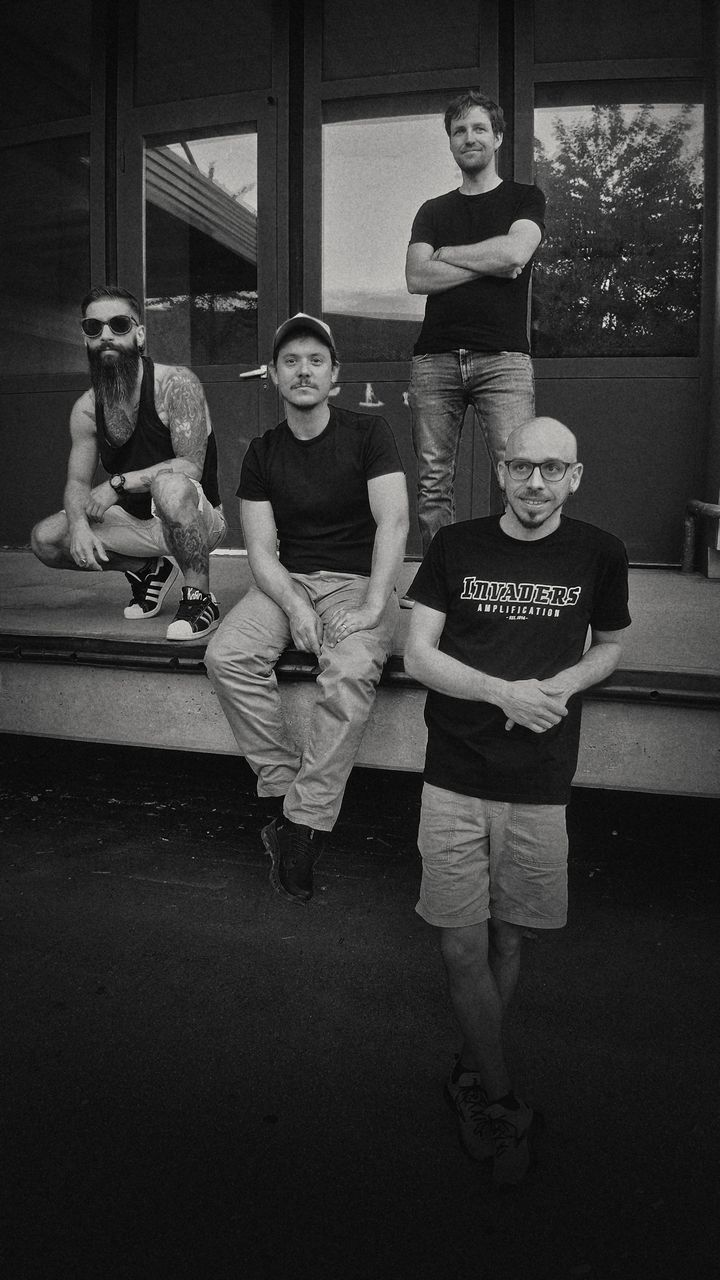
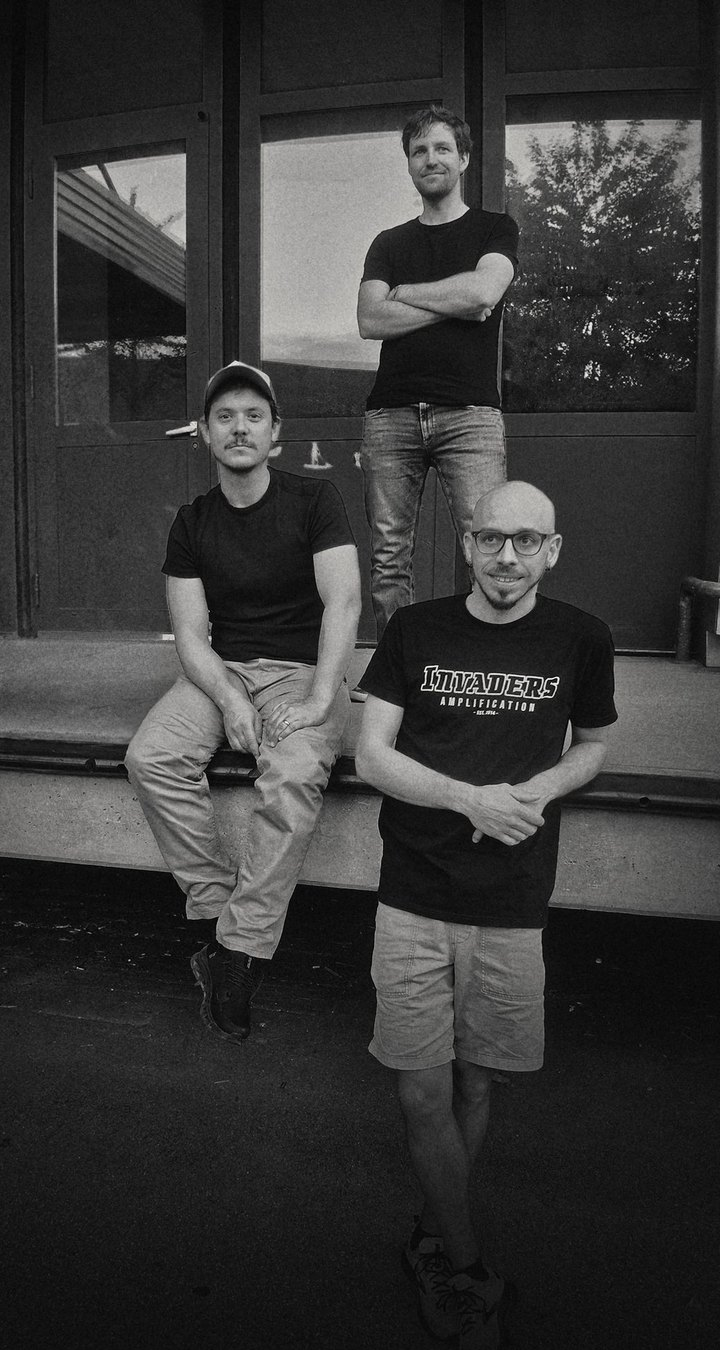
Update the landing page for the trio, re-frame the photo, and add gig calendar links

diff --git a/index.html b/index.html
@@ -4,9 +4,9 @@
 <meta charset="utf-8">
 <meta name="viewport" content="width=device-width,initial-scale=1">
 <title>Ōwashi — Instrumental progressive rock</title>
-<meta name="description" content="Ōwashi — quatuor de rock progressif instrumental basé en Suisse romande. Riffs mélodiques, textures planantes et poussées métal.">
+<meta name="description" content="Ōwashi — trio de rock progressif instrumental basé en Suisse romande. Riffs mélodiques, textures planantes et poussées métal.">
 <meta property="og:title" content="Ōwashi — Instrumental progressive rock">
-<meta property="og:description" content="Quatuor de rock progressif instrumental basé en Suisse romande.">
+<meta property="og:description" content="Trio de rock progressif instrumental basé en Suisse romande.">
 <meta property="og:type" content="website">
 <meta property="og:url" content="https://owashi.band">
 <meta property="og:locale" content="fr_CH">
@@ -17,7 +17,7 @@
 <meta property="og:image:alt" content="Ōwashi">
 <meta name="twitter:card" content="summary_large_image">
 <meta name="twitter:title" content="Ōwashi — Instrumental progressive rock">
-<meta name="twitter:description" content="Quatuor de rock progressif instrumental basé en Suisse romande.">
+<meta name="twitter:description" content="Trio de rock progressif instrumental basé en Suisse romande.">
 <meta name="twitter:image" content="https://owashi.band/assets/og-image.jpg">
 <meta name="theme-color" content="#0b0b0c">
 <link rel="icon" href="assets/favicon.svg" type="image/svg+xml">
@@ -203,19 +203,27 @@
   /* ---- Live ---- */
   .gigs{list-style:none;border-top:1px solid var(--line-2)}
   .gigs li{
-    display:grid;grid-template-columns:minmax(0,3fr) minmax(0,6fr) minmax(0,3fr);
+    display:grid;grid-template-columns:minmax(0,3fr) minmax(0,5fr) minmax(0,2.5fr) auto;
     gap:10px 24px;align-items:baseline;
     padding:22px 0;border-bottom:1px solid var(--line);
   }
   .gigs time{font-size:clamp(20px,2.2vw,30px);font-weight:400;letter-spacing:-.01em;font-variant-numeric:tabular-nums;white-space:nowrap}
   .gigs .venue{font-size:clamp(18px,1.8vw,24px);color:var(--fg)}
   .gigs .city{font-size:12px;letter-spacing:.2em;text-transform:uppercase;color:var(--fg-2);text-align:right;font-weight:400}
+  .gigs .cal{
+    font-size:10.5px;letter-spacing:.18em;text-transform:uppercase;font-weight:400;
+    color:var(--fg-3);border:1px solid var(--line-2);border-radius:999px;
+    padding:4px 11px;white-space:nowrap;transition:color .2s,border-color .2s,background .2s;
+  }
+  .gigs .cal:hover,.gigs .cal:focus-visible{color:var(--bg);background:var(--fg);border-color:var(--fg);outline:none}
   .gigs li.past{opacity:.38}
-  @media(max-width:560px){
+  .gigs li.past .cal{display:none}
+  @media(max-width:640px){
     .gigs li{grid-template-columns:1fr auto}
     .gigs time{grid-row:1;grid-column:1}
     .gigs .city{grid-row:1;grid-column:2}
-    .gigs .venue{grid-row:2;grid-column:1/-1;margin-top:-4px}
+    .gigs .venue{grid-row:2;grid-column:1;margin-top:-4px}
+    .gigs .cal{grid-row:2;grid-column:2;justify-self:end;align-self:center;margin-top:-4px}
   }
 
   /* ---- Listen ---- */
@@ -244,7 +252,7 @@
   .band .aside strong{font-weight:400;color:var(--fg)}
   .band .grid{grid-template-columns:minmax(0,6fr) minmax(0,5fr);align-items:center}
   /* band photo: edges dissolve into the section, the ground falls away like the page's bottom fade */
-  .band .photo{position:relative;justify-self:end;width:min(100%,460px);aspect-ratio:1200/2133}
+  .band .photo{position:relative;justify-self:end;width:min(100%,460px);aspect-ratio:1040/1950}
   .band .photo img{
     width:100%;height:100%;object-fit:cover;
     -webkit-mask-image:linear-gradient(90deg,transparent,#000 11%,#000 89%,transparent),linear-gradient(180deg,transparent,#000 9%,#000 74%,transparent);
@@ -253,8 +261,10 @@
     mask-composite:intersect;
   }
   /* easter egg: a name lets that member's spirit drift up out of the photo */
-  .band .member{cursor:default;transition:text-shadow .8s}
-  .band .member.haunt{text-shadow:0 0 16px rgba(226,229,236,.6)}
+  .band .member{cursor:pointer;border-bottom:1px dotted var(--line-2);transition:text-shadow .8s,border-color .25s}
+  .band .member:hover,.band .member:focus-visible{border-color:var(--fg-2)}
+  .band .member:focus-visible{outline:1px solid var(--fg-2);outline-offset:3px;border-radius:2px}
+  .band .member.haunt{text-shadow:0 0 16px rgba(226,229,236,.6);border-color:var(--fg)}
   .spirit,.husk{
     position:absolute;inset:0;pointer-events:none;opacity:0;
     /* the member's silhouette, cut by the same side fade as the photo (not the top: spirits leave through it) */
@@ -344,7 +354,7 @@
   </section>
   </div>
 
-  <section id="about">
+  <section id="about" aria-label="About">
     <div class="wrap block">
       <div class="grid">
         <p class="lede" data-i18n="about.lede">Un <strong>rock progressif instrumental</strong> immersif, entre riffs mélodiques, textures planantes et poussées métal.</p>
@@ -355,7 +365,7 @@
     </div>
   </section>
 
-  <section id="live">
+  <section id="live" aria-label="Live dates">
     <div class="wrap block">
       <ul class="gigs">
         <li><time datetime="2026-11-28">28 nov. 2026</time><span class="venue">Pression et Distortions</span><span class="city">Renens</span></li>
@@ -364,7 +374,7 @@
     </div>
   </section>
 
-  <section id="listen">
+  <section id="listen" aria-label="Listen">
     <div class="wrap block">
       <div class="player">
         <iframe
@@ -377,20 +387,20 @@
     </div>
   </section>
 
-  <section id="band" class="band">
+  <section id="band" class="band" aria-label="The band">
     <div class="wrap block">
       <div class="grid">
-        <p class="aside" data-i18n="band.text">Le groupe s'est construit autour des compositions originales de <strong>Cyril</strong>, aujourd'hui rejointes par celles de <strong>Fab</strong>. Tous deux se partagent guitares lead et rythmique ; <strong>Olivier</strong> (basse) et <strong>Romain</strong> (batterie) enrichissent chaque morceau de leurs influences et sensibilités.</p>
+        <p class="aside" data-i18n="band.text">Le groupe s'est construit autour des compositions originales de <strong>Cyril</strong> (guitare) ; <strong>Olivier</strong> (basse) et <strong>Romain</strong> (batterie) enrichissent chaque morceau de leurs influences et sensibilités.</p>
         <figure class="photo">
-          <img src="assets/band-2026.jpg" srcset="assets/band-2026-720.jpg 720w, assets/band-2026.jpg 1200w" sizes="(max-width: 760px) 100vw, 460px"
-            width="1200" height="2133" loading="lazy" decoding="async"
-            alt="Ōwashi : Cyril, Fab, Olivier et Romain devant une façade vitrée" data-i18n-alt="band.alt">
+          <img src="assets/band-2026.jpg" srcset="assets/band-2026-720.jpg 720w, assets/band-2026.jpg 1040w" sizes="(max-width: 760px) 100vw, 460px"
+            width="1040" height="1950" loading="lazy" decoding="async"
+            alt="Ōwashi : Cyril, Olivier et Romain devant une façade vitrée" data-i18n-alt="band.alt">
         </figure>
       </div>
     </div>
   </section>
 
-  <section id="contact" class="contact">
+  <section id="contact" class="contact" aria-label="Contact">
     <div class="wrap block">
       <div class="links">
         <a href="https://soundcloud.com/owashi-band-official" target="_blank" rel="noopener">
@@ -424,8 +434,9 @@
       'scroll': 'Défiler',
       'about.lede': 'Un <strong>rock progressif instrumental</strong> immersif, entre riffs mélodiques, textures planantes et poussées métal.',
       'about.text': 'Basé en Suisse romande, <span class="om">Ōwashi</span> construit sur scène un voyage sonore intense, clair et dynamique. Des compositions originales qui prennent leur temps, montent, respirent et frappent.',
-      'band.alt': 'Ōwashi : Cyril, Fab, Olivier et Romain devant une façade vitrée',
-      'band.text': "Le groupe s'est construit autour des compositions originales de <strong>Cyril</strong>, aujourd'hui rejointes par celles de <strong>Fab</strong>. Tous deux se partagent guitares lead et rythmique ; <strong>Olivier</strong> (basse) et <strong>Romain</strong> (batterie) enrichissent chaque morceau de leurs influences et sensibilités.",
+      'band.alt': 'Ōwashi : Cyril, Olivier et Romain devant une façade vitrée',
+      'band.text': "Le groupe s'est construit autour des compositions originales de <strong>Cyril</strong> (guitare) ; <strong>Olivier</strong> (basse) et <strong>Romain</strong> (batterie) enrichissent chaque morceau de leurs influences et sensibilités.",
+      'live.cal': '+ Agenda',
       'contact.text': 'Concerts, presse, projets :',
       'footer.loc': 'Suisse romande'
     },
@@ -434,8 +445,9 @@
       'scroll': 'Scroll',
       'about.lede': 'Immersive <strong>instrumental progressive rock</strong> — melodic riffs, sweeping textures and metallic surges.',
       'about.text': 'Based in French-speaking Switzerland, <span class="om">Ōwashi</span> builds an intense, clear and dynamic sonic journey on stage. Original compositions that take their time, climb, breathe and hit.',
-      'band.alt': 'Ōwashi: Cyril, Fab, Olivier and Romain in front of a glass façade',
-      'band.text': 'The band came together around <strong>Cyril</strong>\'s original compositions, now joined by <strong>Fab</strong>\'s. The two share lead and rhythm guitar, while <strong>Olivier</strong> (bass) and <strong>Romain</strong> (drums) bring their own influences and sensibilities to every track.',
+      'band.alt': 'Ōwashi: Cyril, Olivier and Romain in front of a glass façade',
+      'band.text': 'The band came together around the original compositions of <strong>Cyril</strong> (guitar); <strong>Olivier</strong> (bass) and <strong>Romain</strong> (drums) bring their own influences and sensibilities to every track.',
+      'live.cal': '+ Calendar',
       'contact.text': 'Shows, press, projects:',
       'footer.loc': 'Switzerland'
     },
@@ -444,13 +456,32 @@
       'scroll': 'スクロール',
       'about.lede': 'メロディアスなリフ、広がりのあるテクスチャ、メタル的な勢いが交差する、没入型の<strong>インストゥルメンタル・プログレッシブ・ロック</strong>。',
       'about.text': 'スイス・ロマンド地方を拠点とする<span class="om">Ōwashi</span>は、ライブで強烈かつ透明感のあるダイナミックな音の旅を紡ぎ出す。時間をかけて高まり、呼吸し、そして打ちつけるオリジナル曲。',
-      'band.alt': 'Ōwashi：Cyril、Fab、Olivier、Romain',
-      'band.text': 'バンドは<strong>Cyril</strong>のオリジナル曲を軸に結成され、現在は<strong>Fab</strong>の楽曲も加わっている。二人はリードとリズムの両ギターを分け合い、<strong>Olivier</strong>（ベース）と<strong>Romain</strong>（ドラム）がそれぞれの感性と影響を各曲に注ぎ込んでいる。',
+      'band.alt': 'Ōwashi：Cyril、Olivier、Romain',
+      'band.text': 'バンドは<strong>Cyril</strong>（ギター）のオリジナル曲を軸に結成され、<strong>Olivier</strong>（ベース）と<strong>Romain</strong>（ドラム）がそれぞれの感性と影響を各曲に注ぎ込んでいる。',
+      'live.cal': '+ カレンダー',
       'contact.text': 'ライブ、取材、プロジェクトのご相談：',
       'footer.loc': 'スイス'
     }
   };
   const SUPPORTED = ['fr', 'en', 'ja'];
+
+  function gigIcs(iso, venue, city){
+    const d = new Date(iso + 'T12:00:00Z');
+    const next = new Date(d.getTime() + 86400000);
+    const ymd = dt => dt.toISOString().slice(0, 10).replace(/-/g, '');
+    const esc = s => s.replace(/([\\;,])/g, '\\$1');
+    return 'data:text/calendar;charset=utf-8,' + encodeURIComponent([
+      'BEGIN:VCALENDAR', 'VERSION:2.0', 'PRODID:-//Owashi//owashi.band//EN',
+      'BEGIN:VEVENT',
+      `UID:${iso}-${venue.toLowerCase().replace(/[^a-z0-9]+/g, '-')}@owashi.band`,
+      `DTSTART;VALUE=DATE:${ymd(d)}`,
+      `DTEND;VALUE=DATE:${ymd(next)}`,
+      `SUMMARY:${esc(`Ōwashi — ${venue}`)}`,
+      `LOCATION:${esc(`${venue}, ${city}`)}`,
+      'URL:https://owashi.band',
+      'END:VEVENT', 'END:VCALENDAR'
+    ].join('\r\n'));
+  }
 
   function applyLang(lang){
     document.documentElement.lang = lang;
@@ -468,7 +499,21 @@
     document.querySelectorAll('.gigs time[datetime]').forEach(el => {
       const d = new Date(el.dateTime + 'T12:00:00');
       el.textContent = fmt.format(d);
-      el.closest('li').classList.toggle('past', d < today);
+      const li = el.closest('li');
+      const isPast = d < today;
+      li.classList.toggle('past', isPast);
+      let cal = li.querySelector('.cal');
+      if (!cal) {
+        const venue = li.querySelector('.venue')?.textContent.trim() || '';
+        const city = li.querySelector('.city')?.textContent.trim() || '';
+        cal = document.createElement('a');
+        cal.className = 'cal';
+        cal.href = gigIcs(el.dateTime, venue, city);
+        cal.download = `owashi-${el.dateTime}.ics`;
+        li.append(cal);
+      }
+      cal.textContent = I18N[lang]['live.cal'];
+      cal.setAttribute('aria-label', `${I18N[lang]['live.cal']} (${el.textContent})`);
     });
     document.querySelectorAll('.lang button').forEach(b => {
       const on = b.dataset.lang === lang;
@@ -497,14 +542,14 @@
   const img = photo && photo.querySelector('img');
   if (!text || !img) return;
   // each member's centre in the frame (from the masks in assets/ghost-*.png)
-  const MEMBERS = { fab: '13.5% 33.4%', romain: '43.1% 46.8%', olivier: '65.3% 24.1%', cyril: '70.3% 56.6%' };
+  const MEMBERS = { romain: '34.5% 51.4%', olivier: '60.0% 26.4%', cyril: '65.8% 62.0%' };
   const reduce = matchMedia('(prefers-reduced-motion: reduce)').matches;
   const layers = {}, running = new Set();
 
   function tag(){
     text.querySelectorAll('strong').forEach(s => {
       const id = s.textContent.trim().toLowerCase();
-      if (MEMBERS[id]) { s.classList.add('member'); s.dataset.member = id; s.tabIndex = 0; }
+      if (MEMBERS[id]) { s.classList.add('member'); s.dataset.member = id; s.setAttribute('role', 'button'); s.tabIndex = 0; }
     });
   }
   new MutationObserver(tag).observe(text, { childList: true });   // the language switch rewrites the paragraph
@@ -520,7 +565,7 @@
     return el;
   }
   // hit map: which member is under each point of the photo, read from the same masks
-  const ids = Object.keys(MEMBERS), MW = 288, MH = 512, hit = new Uint8Array(MW * MH);
+  const ids = Object.keys(MEMBERS), MW = 288, MH = 540, hit = new Uint8Array(MW * MH);
   function buildHitMap(){
     const c = document.createElement('canvas'); c.width = MW; c.height = MH;
     const ctx = c.getContext('2d', { willReadFrequently: true });
@@ -566,6 +611,11 @@
   text.addEventListener('pointerover', e => { const m = pick(e); if (m && !m.contains(e.relatedTarget)) haunt(m.dataset.member); });
   text.addEventListener('focusin', e => { const m = pick(e); if (m) haunt(m.dataset.member); });
   text.addEventListener('click', e => { const m = pick(e); if (m) haunt(m.dataset.member); });
+  text.addEventListener('keydown', e => {
+    if (e.key !== 'Enter' && e.key !== ' ') return;
+    const m = pick(e);
+    if (m) { e.preventDefault(); haunt(m.dataset.member); }
+  });
 
   // in the photo: the mouse entering someone, or a tap on them
   function memberAt(e){
@@ -579,9 +629,10 @@
   photo.addEventListener('pointermove', e => {
     if (e.pointerType === 'touch') return;   // touch scrolls past the photo; a tap is handled by click
     const id = memberAt(e);
+    photo.style.cursor = id ? 'pointer' : '';
     if (id !== over) { over = id; if (id) haunt(id); }
   });
-  photo.addEventListener('pointerleave', () => { over = null; });
+  photo.addEventListener('pointerleave', () => { over = null; photo.style.cursor = ''; });
   photo.addEventListener('click', e => { const id = memberAt(e); if (id) haunt(id); });
 })();
 </script>
